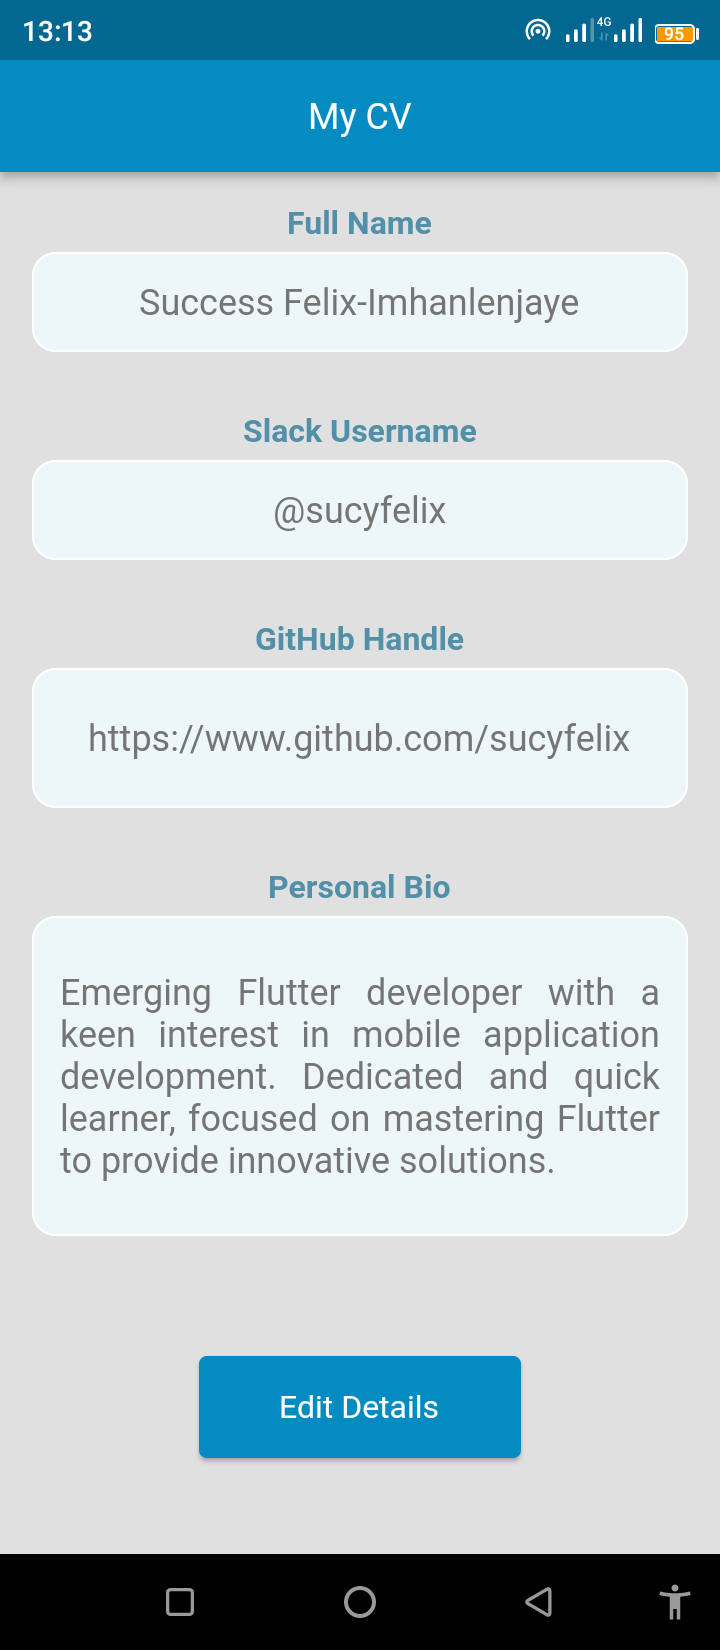
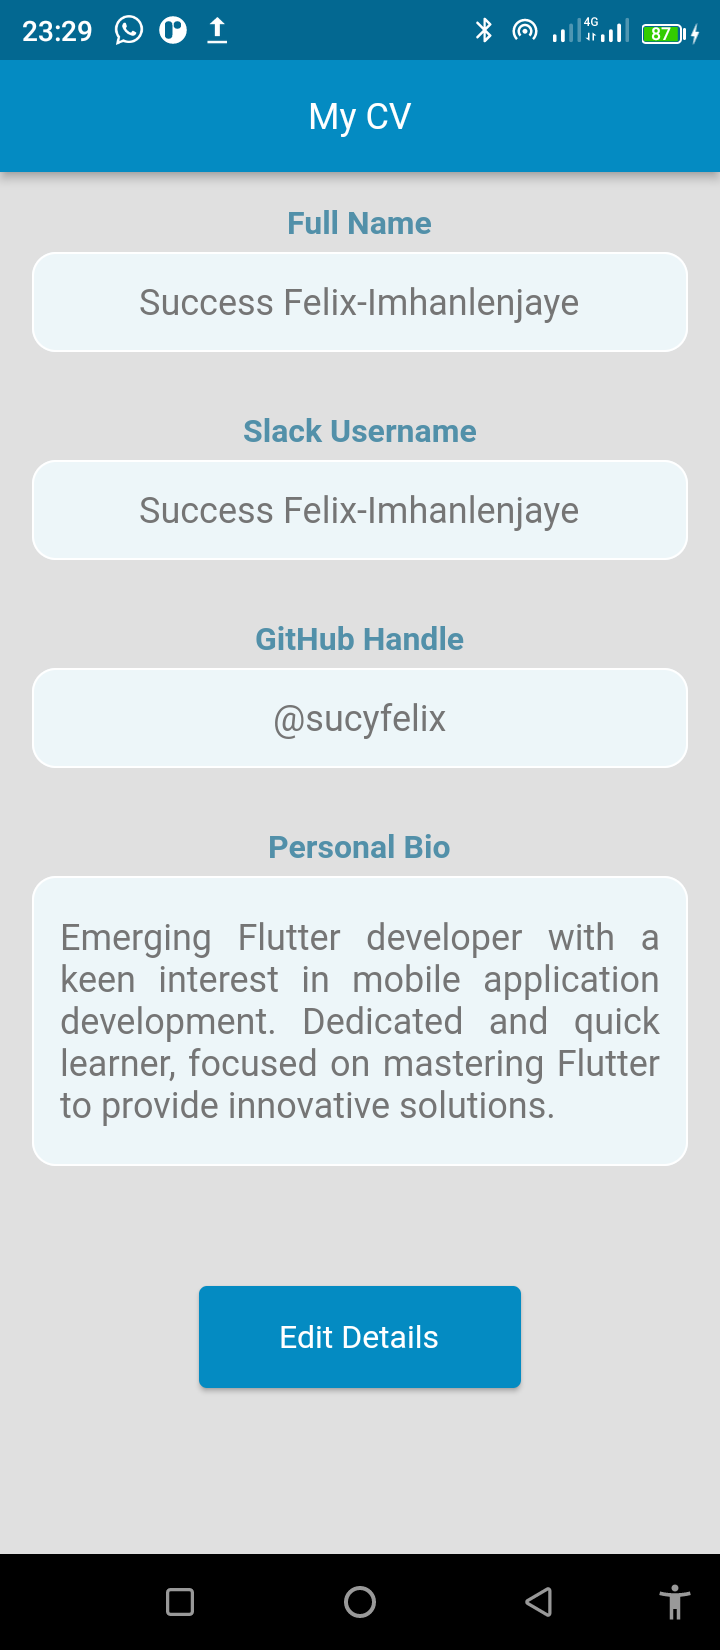
Changed appetize link and usage instruction

diff --git a/lib/screens/first_screen.dart b/lib/screens/first_screen.dart
@@ -12,8 +12,8 @@ class FirstScreen extends StatefulWidget {
 class _FirstScreenState extends State<FirstScreen> {
   CVDetails cvDetails = CVDetails(
     fullName: "Success Felix-Imhanlenjaye",
-    username: "@sucyfelix",
-    githubHandle: "https://www.github.com/sucyfelix",
+    username: "Success Felix-Imhanlenjaye",
+    githubHandle: "@sucyfelix",
     personalBio:
         'Emerging Flutter developer with a keen interest in mobile application development. Dedicated and quick learner, focused on mastering Flutter to provide innovative solutions.',
   );
@@ -57,7 +57,7 @@ class _FirstScreenState extends State<FirstScreen> {
                 ),
                 cvDetailsContainer(
                   text: cvDetails.githubHandle,
-                  height: 70,
+                  height: 50,
                 ),
                 SizedBox(height: 30.0),
                 cvDetailsLabel(label: 'Personal Bio'),
@@ -65,7 +65,7 @@ class _FirstScreenState extends State<FirstScreen> {
                   height: 5,
                 ),
                 Container(
-                  height: 160,
+                  height: 145,
                   width: double.infinity,
                   decoration: BoxDecoration(
                       border: Border.all(

diff --git a/README.md b/README.md
@@ -18,10 +18,10 @@ HNG STAGE 2 TASK is a simple Flutter application that allows you to showcase you
 
 ### Appetizer Usage:
 ___ 
-* Copy and paste this url on your browser: 
- https://appetize.io/app/vip3ce7fvgrdnm5jidc5eonjla?device=pixel7pro&osVersion=13.0&scale=50
+* Visit this website: 
+ https://appetize.io/app/g57x37vqjlj3xocage6lbvisou?device=pixel6pro&osVersion=12.0&scale=50
 
-* Use the pixel 7 pro on android 13 to view
+* Use the pixel 6 pro on android 12 to view
 
 * Click on 'Tap to Play' on the emulator
 
@@ -109,5 +109,6 @@ If you'd like to contribute to this project, please follow these guidelines:
 - #### Push your branch to your fork on GitHub.
 - Create a pull request with a description of your changes.
 
+___
 ___
 Thank you for showing interest in HNG STAGE 2 TASK! If you have any questions, feedback, or suggestions, feel free to contact me via email or through my GitHub profile. Your input is valuable, and I look forward to enhancing this project together.
